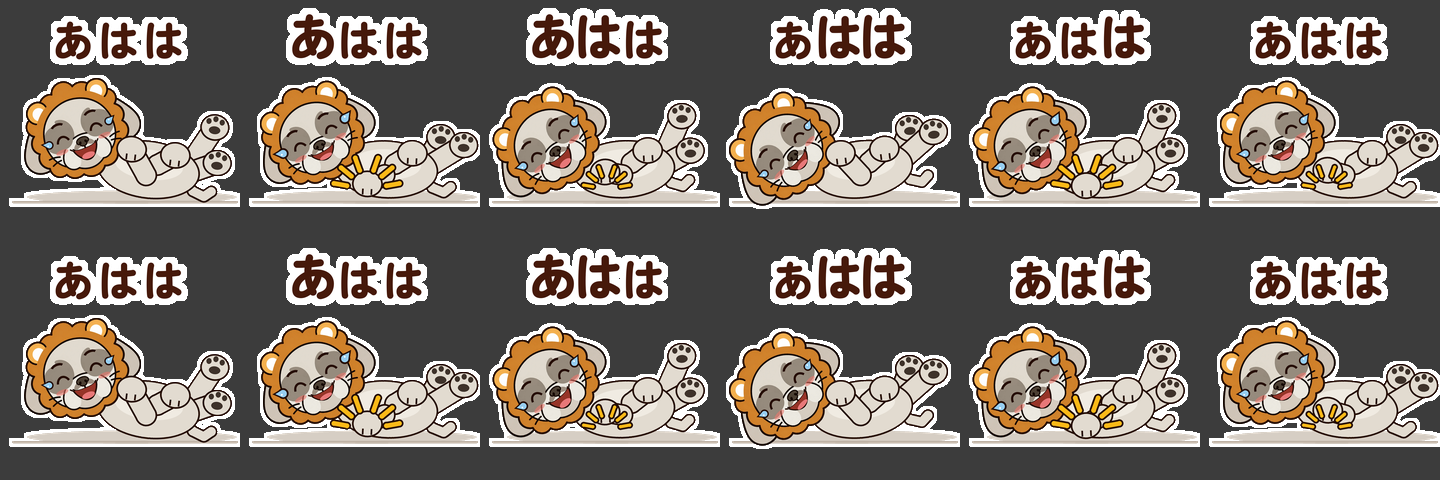
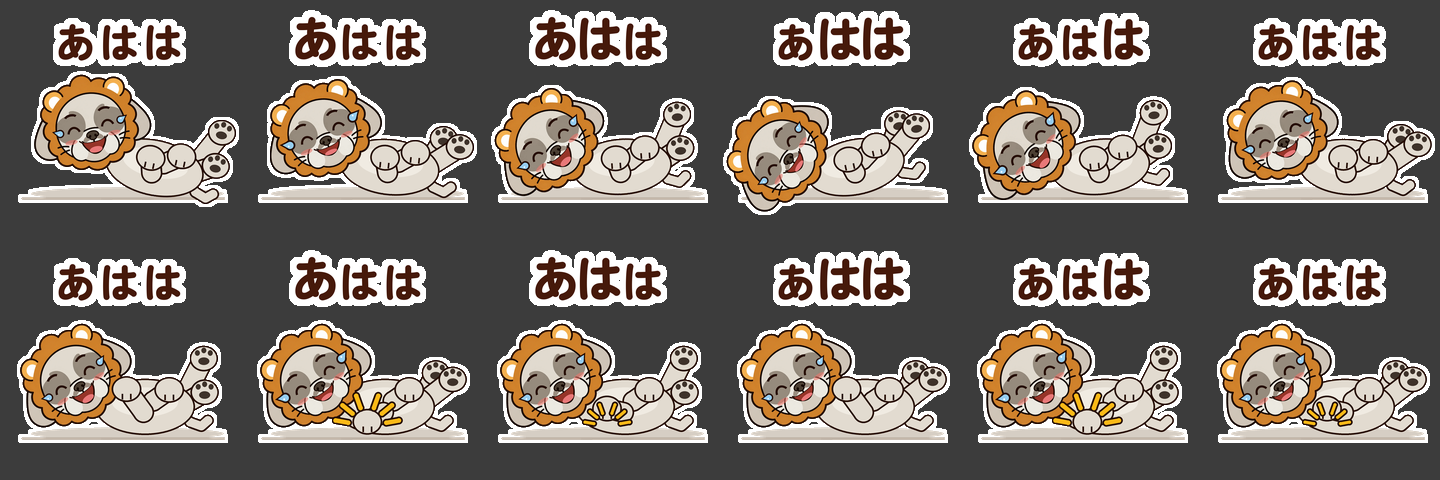
Split 'ahaha' sticker into rolling (first half) and pounding (second half)
Claude-Session: https://claude.ai/code/session_01KX3WDfyPkAofSs6dqvGAmw

diff --git a/.claude/skills/stamp-create/SKILL.md b/.claude/skills/stamp-create/SKILL.md
@@ -101,6 +101,8 @@ print(ms.verify("assets/gif/名前.gif"))                     # 検証
 - **こんにちは・お辞儀（画像1枚＋描き足し＋文字）**：そろえた前足（手の甲側）が下からそっとせり上がる → 頭を下げる（下へ 120px・縦に 0.84 倍。`Image.QUAD` で上を広く・下を狭くして、頭のてっぺんが手前に来る遠近感を付ける）→ 深いお辞儀で少し止める → 顔を上げて少し背伸び → にっこり笑顔で長めに止める（10コマ・3.5秒）。表情はお辞儀に合わせて満面の笑顔へ。文字は1文字ずつ、0.45倍から1倍へ行き過ぎずになめらかに大きくなり、少し下からふわっと定位置へ上がる。「やわらかく」と言われたら、文字色を明るい茶色（RGB 122,74,50）にする
 - **あはは・お腹を抱えてゲラゲラ（画像1枚＋描き足し＋文字）**：左右の下から伸びた前足（手の甲側）を体の前で重ねてお腹を抱える。体は下の中央を軸に `0, 5, 8, 4, -4, -8` 度で左右に大きく揺れ、同時に毎コマ `-12 / +10px` で上下に小刻みに弾む。口はさらに大きく開け、`1.0 / 0.72` で開いたり閉じたりして「ハッ、ハッ」と笑う。目尻の水色の笑い涙は、とがった先を目に向けて外へ飛び出させる（まっすぐ立てると冷や汗に見える）。6コマで1往復×2回＝12コマ・1.5秒。文字「あはは」はリズムに合わせて1文字ずつ時間差で弾む
   - **地べたで笑い転げる版（体を描き足す）**：元の絵が顔だけでも、ユーザーが「体は作っていい」と言えば胴体・後ろ足・しっぽ・地面を描き足す。仰向けに寝転がり、頭は左（傾きは35度まで。70度など倒しすぎると小さく表示したとき顔が分からない）、胴体は横長の楕円で右へ、後ろ足は空中で1コマごとに交互にジタバタ（足の裏と黒っぽい肉球を見せる）。片方の前足でお腹を押さえ、もう片方は**頭と体の間**で地面を叩く（顔に重ねない）。全体を地面の接地点を軸に `-7〜7` 度でゴロゴロ揺らす。地面は影の楕円と線で表し、揺らさない。横長の姿なので、広めの作業用キャンバスに描いてから正方形に切り抜き、足先が切れていないか確認用シートで確かめる
+  - 動きを**前半と後半で分ける**ときは、コマごとの値の並びを前半・後半で別々に組む。例：前半6コマ＝両前足でお腹を押さえて `-12, -6, 4, 12, 6, -4` 度で大きく転げる（体も傾きの向きに `傾き×2` px だけ横へ。大きく動かすと足先が切れる）／後半6コマ＝転がりを止めて地面を2回叩く
+  - 端で切れていないかは、目で見るだけでなく数字でも確かめる：GIFの各コマで、上下左右いちばん端の列・行に透明でない画素があるかを調べ、あれば切り抜き範囲や部品の位置を直す
   - 前足でバンバン叩く版もある：振り上げ → 叩く（体がむにっと沈み、黄色い衝撃線が前足の左右に広がる）→ はね返り、の3コマを右→左で2回。叩いた前足は画面の下に隠れない高さに着地させる
 - GIF は表示時間を 10ms 単位でしか記録できない（125ms は 120ms になる）。合計秒数をきっちり合わせたいときは、130ms と 120ms を交互に並べるなど、10ms 単位の値で組む
 - **跳ねる（画像1枚）**：`sy:0.92, sx:1.05`（しゃがむ）→ `dy:-20`（跳ぶ）→ `dy:-28` → `dy:-20` → 着地 `sy:0.94` → 元に戻る
